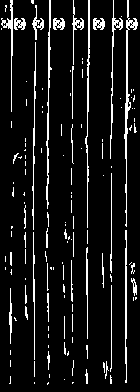
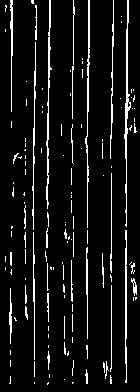
cleaning and testing
- all magic numbers are set as class attributes and ready to be
  calibrated
- HOLES and TEARS method removed (standard deviation could be
  misleading)
- Crest or Troug method removed (no static threshold)
- detecting the pattern by detecting the higher wall brightness and set
  it as Crest to be the reference
- time execution tested on a 11th Gen Core i5 at two cases:
  1) with debugging and saving images= 0.0578s FPS=17.31
  2) without debugging= 0.0226s FPS=44.18

diff --git a/main.py b/main.py
@@ -1,34 +1,36 @@
 import cv2
+import numpy as np
+import time
 
 from core.edge_detector import EdgeDetector
 from core.brightness_calc import BrightnessDetector
 
 
 def main():
-
+    start_time = time.perf_counter()
     # 1. Read test image
     image = cv2.imread("test_data/cropped_container2_2.jpg")
-
-    debug_image=image
 
     if image is None:
         raise ValueError("Could not read the test image")
 
+    debug_image = image.copy()
+
     # 2. Create detector instances
     edge_detector = EdgeDetector(threshold=50)
 
-    brightness_detector = BrightnessDetector(
-        thresh=100,
-        std_thresh=20
-    )
+    brightness_detector = BrightnessDetector()
 
     # 3. Get vertical regions
-    edge_detector.image=image
+    edge_detector.image = image
     regions = edge_detector.get_vertical_regions()
 
     # 4. Initialize damage counters for this snapshot
     total_anomaly_area = 0
     total_snapshot_area = 0
+
+    # Store the brightness reference for every region
+    region_brightness = []
 
     # 5. Process each region
     brightness_detector.image = image
@@ -44,51 +46,75 @@ def main():
 
         total_snapshot_area += region_area
 
-        # Check for holes and tears
-        if brightness_detector.Holes_and_Tears():
-
-            # Calculate anomaly area
-            anomaly_area = brightness_detector.calculate_damage_area(debug_image=debug_image)
-
-            total_anomaly_area += anomaly_area
-
-        # classify region as Crest or Trough // necessary but later
-        classification = brightness_detector.Crest_or_Trough()
-        #//////////////////////////
-        center_x = (start_x + end_x) // 2
-        label = "1" if classification == "Crest" else "0"
-
-        # Measure rendered text width so the label is truly centred
-        # between the two boundary lines regardless of region width.
-        (text_w, _), _ = cv2.getTextSize(label, cv2.FONT_HERSHEY_SIMPLEX, 0.6, 2)
-        cv2.putText(
-            debug_image,
-            label,
-            (center_x - text_w // 2, 30),
-            cv2.FONT_HERSHEY_SIMPLEX,
-            0.6,
-            (255, 0, 0),
-            2
+        # Calculate anomaly area and majority brightness
+        anomaly_area, majority_brightness = (
+            brightness_detector.calculate_damage_area(
+                debug_image=debug_image
+            )
         )
 
+        region_brightness.append(majority_brightness)
+        
+        total_anomaly_area += anomaly_area
 
         print(f"Region: {region}")
-        print(f"Classification: {classification}")
+        print(f"Majority brightness: {majority_brightness:.2f}")
 
-    # 6. Check vertical edge damage
-    
-    edge_results, edge_damage, debug_image = edge_detector.check_edges_damage(debug_image=debug_image)
+    # 6. Classify regions using the brightest region as the Crest reference
+    if region_brightness:
 
-    # 7. Add edge damage to the anomaly area
+        crest_index = int(np.argmax(region_brightness))
+
+        print(f"\nCrest reference region: {regions[crest_index]}")
+
+        for i, region in enumerate(regions):
+
+            if (i - crest_index) % 2 == 0:
+                classification = "Crest"
+            else:
+                classification = "Trough"
+
+            # Draw classification label
+            start_x, end_x = region
+            center_x = (start_x + end_x) // 2
+
+            label = "1" if classification == "Crest" else "0"
+
+            (text_w, _), _ = cv2.getTextSize(
+                label,
+                cv2.FONT_HERSHEY_SIMPLEX,
+                0.6,
+                2
+            )
+
+            cv2.putText(
+                debug_image,
+                label,
+                (center_x - text_w // 2, 30),
+                cv2.FONT_HERSHEY_SIMPLEX,
+                0.6,
+                (255, 0, 0),
+                2
+            )
+
+            print(f"Region: {region}")
+            print(f"Classification: {classification}")
+
+    # 7. Check vertical edge damage
+    edge_results, edge_damage, debug_image = (
+        edge_detector.check_edges_damage(debug_image=debug_image)
+    )
+
+    # 8. Add edge damage to the anomaly area
     total_anomaly_area += edge_damage
 
-    # 8. Calculate snapshot damage percentage
+    # 9. Calculate snapshot damage percentage
     damage_percentage = (
         (total_anomaly_area / total_snapshot_area) * 100
         if total_snapshot_area > 0 else 0
     )
 
-    # 9. Display results
+    # 10. Display results
     print("\n========== SNAPSHOT RESULTS ==========")
 
     print(f"Number of regions: {len(regions)}")
@@ -99,10 +125,17 @@ def main():
     print(f"Damage percentage: {damage_percentage:.2f}%")
 
     print("\nEdge details:")
-    cv2.imwrite('debug/debug_image.png',debug_image)
     for result in edge_results:
         print(result)
 
+    # Save debug image
+    cv2.imwrite("debug/debug_image1.png", debug_image)
 
+    end_time = time.perf_counter()
+
+    execution_time = end_time - start_time
+
+    print(f"\nTotal execution time: {execution_time:.4f} seconds")
+    print(f"FPS: {1 / execution_time:.2f}")
 if __name__ == "__main__":
     main()

diff --git a/core/edge_detector.py b/core/edge_detector.py
@@ -3,11 +3,13 @@ import numpy as np
 
 class EdgeDetector:
 
-    def __init__(self, threshold=50):
+    def __init__(self, threshold=50,min_distance=10,min_num_of_coloumns=2,ksize=3):
         self.threshold = threshold
         self._image=None
-    
-
+        self.min_distance=min_distance
+        # minimum distance between 2 edges 
+        self.min_num_of_coloumns=min_num_of_coloumns
+        self.ksize=ksize
     @property
     def image(self):
         return self._image
@@ -22,7 +24,7 @@ class EdgeDetector:
 
         # Apply Sobel in X direction
         sobel_x = cv2.Sobel(
-            gray, cv2.CV_64F, 1, 0, ksize=3
+            gray, cv2.CV_64F, 1, 0, ksize=self.ksize
         )
 
         # Convert to absolute values
@@ -40,7 +42,7 @@ class EdgeDetector:
         return binary_edges,gray
 
   
-    def _preprocess_vertical_edges(self, min_distance=10):
+    def _preprocess_vertical_edges(self):
 
         edges, gray = self._vertical_edges()
 
@@ -50,13 +52,13 @@ class EdgeDetector:
         # A tall, 1-pixel-wide kernel bridges illumination-caused breaks
         # inside a real edge column without spreading it left or right.
         close_kernel = cv2.getStructuringElement(cv2.MORPH_RECT, (1, 25))
-        edges = cv2.morphologyEx(edges, cv2.MORPH_CLOSE, close_kernel)
+        edges = cv2.morphologyEx(edges, cv2.MORPH_CLOSE, close_kernel)  
+        #MORPH_CLOSE: DILATE then EROSION to fill gaps and then restore the original thickness
 
         # Count edge pixels in each column
         column_scores = np.count_nonzero(edges, axis=0)
 
-        # Lowered from 0.5 to 0.25: after gap-closing, real edge columns
-        # score much higher, so a 25%-of-height bar is sufficient.
+        # Lowered from 0.5 to 0.25
         edge_threshold = height * 0.25
 
         edge_positions = np.where(
@@ -68,14 +70,14 @@ class EdgeDetector:
 
         for x in edge_positions:
 
-            if not grouped_edges or x - grouped_edges[-1][-1] > min_distance:
+            if not grouped_edges or x - grouped_edges[-1][-1] > self.min_distance:
                 grouped_edges.append([x])
             else:
                 grouped_edges[-1].append(x)
 
         # Discard single-column groups: they are almost always weak
         # secondary Sobel responses at corrugation shoulders, not true edges.
-        grouped_edges = [g for g in grouped_edges if len(g) >= 2]
+        grouped_edges = [g for g in grouped_edges if len(g) >= self.min_num_of_coloumns]
 
         # Calculate average X position of each edge
         edge_centers = []
@@ -92,10 +94,10 @@ class EdgeDetector:
 
         return edges, gray, grouped_edges, edge_centers
 
-    def get_vertical_regions(self, min_distance=10):
+    def get_vertical_regions(self):
 
         edges, gray, grouped_edges, edge_centers = \
-            self._preprocess_vertical_edges(min_distance)
+            self._preprocess_vertical_edges()
 
         height, width = edges.shape
 
@@ -113,19 +115,18 @@ class EdgeDetector:
 
         return regions
 
-    def check_edges_damage(self, min_distance=10,
+    def check_edges_damage(self,
                        min_height_ratio=0.6, max_deviation=3, debug_image=None):
         if debug_image is None:
             debug_image=self._image
         edges, _, grouped_edges, _ = \
-            self._preprocess_vertical_edges(min_distance)
+            self._preprocess_vertical_edges()
 
         height, width = edges.shape
 
         results = []
 
         total_damage = 0
-        total_curved_pixels = 0
 
         for group in grouped_edges:
 
@@ -140,10 +141,6 @@ class EdgeDetector:
 
             
             
-
-            # Skip line fitting if there are insufficient points
-            if len(ys) < 2:
-                continue
 
             # Calculate average X position in each row
             x_positions = []

diff --git a/core/brightness_calc.py b/core/brightness_calc.py
@@ -3,12 +3,11 @@ import numpy as np
 
 class BrightnessDetector:
 
-    def __init__(self,thresh,std_thresh):
+    def __init__(self,min_area=10,blur_kernel=(5,5)):
         self._image=None
-        self.thresh=thresh
         self._bounds=None
-        self.std_thresh=std_thresh
-
+        self.min_area=min_area  # min area to accept as contour
+        self.blur_kernel=blur_kernel
 
     @property
     def image(self):
@@ -25,23 +24,21 @@ class BrightnessDetector:
     @bounds.setter
     def bounds(self, value):
         self._bounds=value
-        self.start_x=value[0]
-        self.end_x=value[1]
         
 
 
     def _extract_region(self):
 
-        if self.image is None:
+        if self._image is None:
             raise ValueError("No image has been assigned")
 
-        if self.bounds is None:
+        if self._bounds is None:
             raise ValueError("No region bounds have been assigned")
 
         if self.image.ndim == 3:
             gray = cv2.cvtColor(self.image, cv2.COLOR_BGR2GRAY)
         else:
-            gray = self.image
+            gray = self._image
 
         _, width = gray.shape
 
@@ -55,30 +52,15 @@ class BrightnessDetector:
         return image_region
 
 
-    def Crest_or_Trough(self):
-
-        region = self._extract_region()
-        brightness = np.mean(region)
-        return 'Crest' if brightness > self.thresh else 'Trough'
-
-
-    def Holes_and_Tears(self):  # By testing homogeneity 
-
-        region = self._extract_region()
-        # Calculate brightness standard deviation
-        std_dev = np.std(region)
-
-        # Check homogeneity
-        return std_dev >= self.std_thresh  # if True then there are Tears and Holes
-
-    def calculate_damage_area(self, debug_image=None, min_area=10):
-
+    def calculate_damage_area(self, debug_image=None):
+        if debug_image is None:
+            debug_image=self._image
         region = self._extract_region()
 
-        blurred = cv2.GaussianBlur(region, (5, 5), 0)
+        blurred = cv2.GaussianBlur(region, self.blur_kernel, 0)
 
         # First Otsu pass: splits histogram into dark vs bright classes
-        otsu_thresh, _ = cv2.threshold(
+        otsu_thresh, binary_image = cv2.threshold(
             blurred, 0, 255,
             cv2.THRESH_BINARY + cv2.THRESH_OTSU
         )
@@ -117,7 +99,7 @@ class BrightnessDetector:
 
             area = cv2.contourArea(contour)
 
-            if area < min_area:
+            if area < self.min_area:
                 continue
 
             mask = np.zeros(region.shape, dtype=np.uint8)
@@ -132,14 +114,14 @@ class BrightnessDetector:
 
                 anomaly_area += area
 
-                if debug_image is not None:
-                    cv2.drawContours(
-                        debug_image,
-                        [contour],
-                        -1,
-                        (255, 255, 0),
-                        2,
-                        offset=(start_x, 0)
-                    )
+                
+                cv2.drawContours(
+                    debug_image,
+                    [contour],
+                    -1,
+                    (255, 255, 0),
+                    2,
+                    offset=(start_x, 0)
+                )
 
-        return anomaly_area
+        return anomaly_area, majority_brightness
